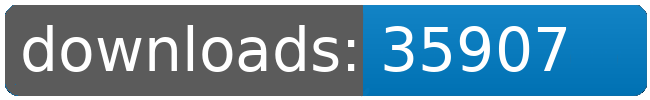
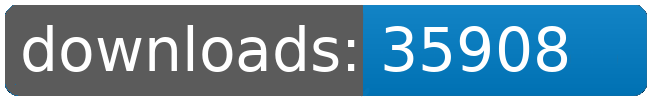
dl log written

Changed region(s): [[0.8, 0.24, 0.8923, 0.72]]

diff --git a/README.md b/README.md
@@ -43,8 +43,8 @@
 		<td>5305</td>
 		<td>5322</td>
 		<td>5342</td>
-		<td>5368</td>
-		<td>+ 26</td>
+		<td>5369</td>
+		<td>+ 27</td>
 	</tr>
 	<tr>
 		<td>Jaws</td>
@@ -109,8 +109,8 @@
 		<td></td>
 		<td></td>
 		<td></td>
-		<td>35907</td>
-		<td>210</td>
+		<td>35908</td>
+		<td>211</td>
 	</tr>
 </table>
 </sub></sup>
@@ -135,8 +135,8 @@
 		<td>5305</td>
 		<td>5322</td>
 		<td>5342</td>
-		<td>5368</td>
-		<td>+ 26</td>
+		<td>5369</td>
+		<td>+ 27</td>
 	</tr>
 	<tr>
 		<td>Louise.Conglomerate.Shipyards</td>
@@ -223,8 +223,8 @@
 		<td></td>
 		<td></td>
 		<td></td>
-		<td>35907</td>
-		<td>210</td>
+		<td>35908</td>
+		<td>211</td>
 	</tr>
 </table>
 </sub></sup>
